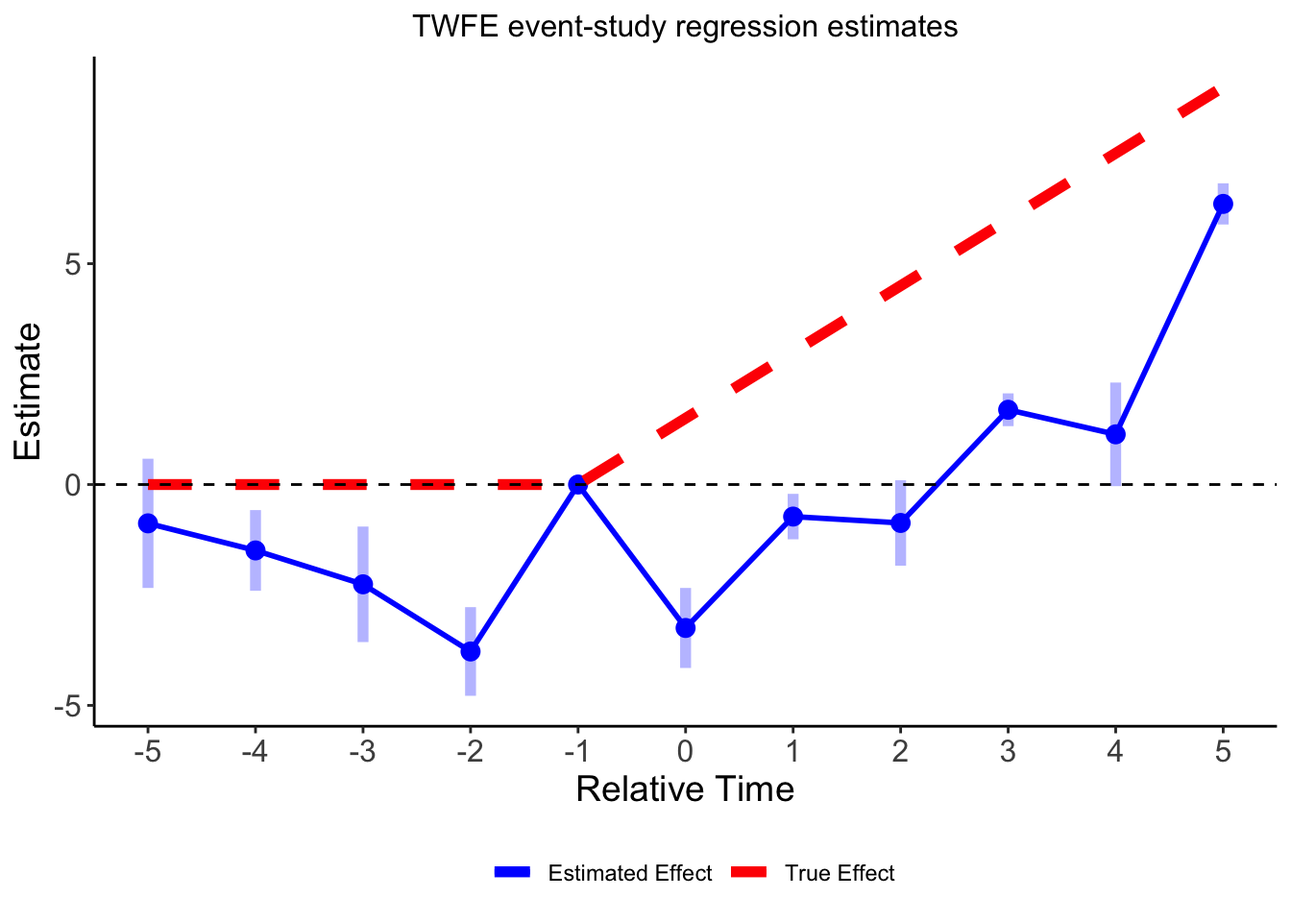
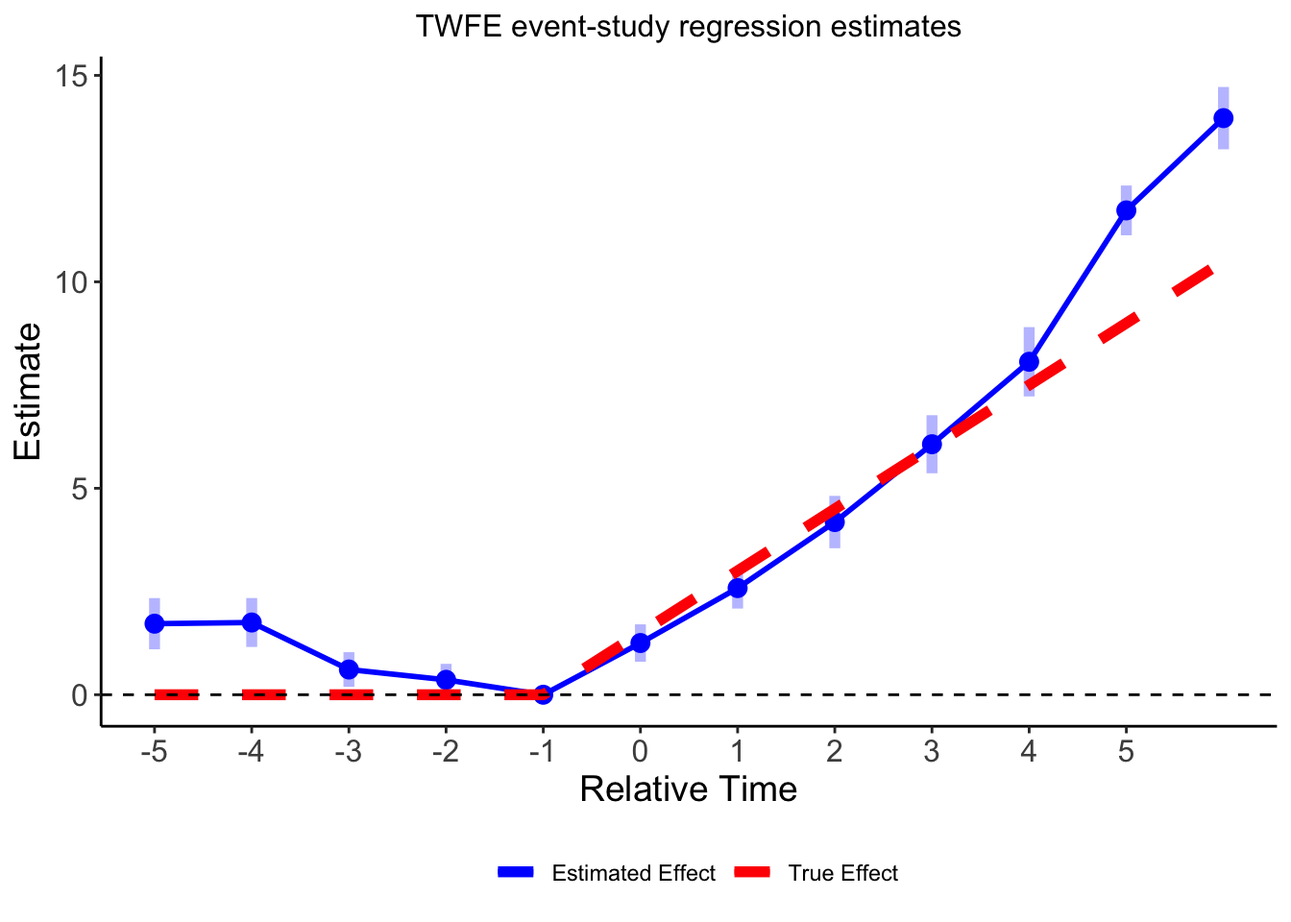
Add CS discussion

diff --git a/did-exp.html b/did-exp.html
@@ -445,7 +445,7 @@ code span.wa { color: #60a0b0; font-weight: bold; font-style: italic; } /* Warni
 <h2 class="anchored" data-anchor-id="twfe-dynamic">TWFE (dynamic)</h2>
 <p>Many analyses using TWFE also typically implement an ‘event study’ type analysis as a robustness check, both to see how the treatment effect may evolve over time in the post period and to see whether there may be some evidence of non-parallel trends in the pre-treatment period. We can implement the event-study type model as: <span class="math display">\[Y_{it} = \alpha_i + \beta_t + \sum_{k\neq-1} \gamma_{k} D_{it} + \varepsilon_{it}\]</span> where <span class="math inline">\(k\)</span> indicates time indicators relative to first treatment (i.e., <span class="math inline">\(k=-2\)</span> means 2 periods prior to treatment) and <span class="math inline">\(\gamma_{k}\)</span> are the coefficients on the relative time indicators. To avoid collinearity we exclude one period, which is typically the period just before first treatment (<span class="math inline">\(k=-1\)</span>).</p>
 <p>Below is a table showing the estimated effects from the TWFE and event-study models:</p>
-<div class="cell" data-hash="did-exp_cache/html/es_606c59b4cc9d94fa3f42fc50b00e47b9">
+<div class="cell" data-hash="did-exp_cache/html/es_3946f47a5b2030ae1eb3d3916e6185eb">
 <details>
 <summary>Code</summary>
 <div class="sourceCode cell-code" id="cb5"><pre class="sourceCode r code-with-copy"><code class="sourceCode r"><span id="cb5-1"><a href="#cb5-1" aria-hidden="true" tabindex="-1"></a><span class="co"># Estimate TWFE</span></span>
@@ -466,7 +466,7 @@ code span.wa { color: #60a0b0; font-weight: bold; font-style: italic; } /* Warni
 <span id="cb5-16"><a href="#cb5-16" aria-hidden="true" tabindex="-1"></a>  y <span class="sc">~</span> <span class="st">`</span><span class="at">rel_year_-5</span><span class="st">`</span> <span class="sc">+</span> <span class="st">`</span><span class="at">rel_year_-4</span><span class="st">`</span> <span class="sc">+</span> <span class="st">`</span><span class="at">rel_year_-3</span><span class="st">`</span> <span class="sc">+</span> </span>
 <span id="cb5-17"><a href="#cb5-17" aria-hidden="true" tabindex="-1"></a>      <span class="st">`</span><span class="at">rel_year_-2</span><span class="st">`</span> <span class="sc">+</span> <span class="st">`</span><span class="at">rel_year_0</span><span class="st">`</span> <span class="sc">+</span> <span class="st">`</span><span class="at">rel_year_1</span><span class="st">`</span> <span class="sc">+</span> </span>
 <span id="cb5-18"><a href="#cb5-18" aria-hidden="true" tabindex="-1"></a>    <span class="st">`</span><span class="at">rel_year_2</span><span class="st">`</span> <span class="sc">+</span> <span class="st">`</span><span class="at">rel_year_3</span><span class="st">`</span> <span class="sc">+</span> <span class="st">`</span><span class="at">rel_year_4</span><span class="st">`</span> <span class="sc">+</span> </span>
-<span id="cb5-19"><a href="#cb5-19" aria-hidden="true" tabindex="-1"></a>    <span class="st">`</span><span class="at">rel_year_5</span><span class="st">`</span> <span class="sc">|</span> state <span class="sc">+</span> year,</span>
+<span id="cb5-19"><a href="#cb5-19" aria-hidden="true" tabindex="-1"></a>    <span class="st">`</span><span class="at">rel_year_5</span><span class="st">`</span> <span class="sc">+</span> <span class="st">`</span><span class="at">rel_year_6</span><span class="st">`</span> <span class="sc">|</span> state <span class="sc">+</span> year,</span>
 <span id="cb5-20"><a href="#cb5-20" aria-hidden="true" tabindex="-1"></a>  <span class="at">data =</span> data,</span>
 <span id="cb5-21"><a href="#cb5-21" aria-hidden="true" tabindex="-1"></a>  <span class="at">vcov =</span> <span class="sc">~</span>state</span>
 <span id="cb5-22"><a href="#cb5-22" aria-hidden="true" tabindex="-1"></a>)</span>
@@ -505,102 +505,112 @@ code span.wa { color: #60a0b0; font-weight: bold; font-style: italic; } /* Warni
   <tr>
    <td style="text-align:left;"> Relative time: -5 </td>
    <td style="text-align:center;">  </td>
-   <td style="text-align:center;"> −0.879 </td>
+   <td style="text-align:center;"> 1.721 </td>
   </tr>
   <tr>
    <td style="text-align:left;">  </td>
    <td style="text-align:center;">  </td>
-   <td style="text-align:center;"> (0.715) </td>
+   <td style="text-align:center;"> (0.303) </td>
   </tr>
   <tr>
    <td style="text-align:left;"> Relative time: -4 </td>
    <td style="text-align:center;">  </td>
-   <td style="text-align:center;"> −1.492 </td>
+   <td style="text-align:center;"> 1.749 </td>
   </tr>
   <tr>
    <td style="text-align:left;">  </td>
    <td style="text-align:center;">  </td>
-   <td style="text-align:center;"> (0.446) </td>
+   <td style="text-align:center;"> (0.290) </td>
   </tr>
   <tr>
    <td style="text-align:left;"> Relative time: -3 </td>
    <td style="text-align:center;">  </td>
-   <td style="text-align:center;"> −2.259 </td>
+   <td style="text-align:center;"> 0.611 </td>
   </tr>
   <tr>
    <td style="text-align:left;">  </td>
    <td style="text-align:center;">  </td>
-   <td style="text-align:center;"> (0.639) </td>
+   <td style="text-align:center;"> (0.205) </td>
   </tr>
   <tr>
    <td style="text-align:left;"> Relative time: -2 </td>
    <td style="text-align:center;">  </td>
-   <td style="text-align:center;"> −3.780 </td>
+   <td style="text-align:center;"> 0.361 </td>
   </tr>
   <tr>
    <td style="text-align:left;">  </td>
    <td style="text-align:center;">  </td>
-   <td style="text-align:center;"> (0.491) </td>
+   <td style="text-align:center;"> (0.189) </td>
   </tr>
   <tr>
    <td style="text-align:left;"> Relative time: 0 </td>
    <td style="text-align:center;">  </td>
-   <td style="text-align:center;"> −3.247 </td>
+   <td style="text-align:center;"> 1.252 </td>
   </tr>
   <tr>
    <td style="text-align:left;">  </td>
    <td style="text-align:center;">  </td>
-   <td style="text-align:center;"> (0.443) </td>
+   <td style="text-align:center;"> (0.221) </td>
   </tr>
   <tr>
    <td style="text-align:left;"> Relative time: 1 </td>
    <td style="text-align:center;">  </td>
-   <td style="text-align:center;"> −0.725 </td>
+   <td style="text-align:center;"> 2.583 </td>
   </tr>
   <tr>
    <td style="text-align:left;">  </td>
    <td style="text-align:center;">  </td>
-   <td style="text-align:center;"> (0.252) </td>
+   <td style="text-align:center;"> (0.242) </td>
   </tr>
   <tr>
    <td style="text-align:left;"> Relative time: 2 </td>
    <td style="text-align:center;">  </td>
-   <td style="text-align:center;"> −0.870 </td>
+   <td style="text-align:center;"> 4.182 </td>
   </tr>
   <tr>
    <td style="text-align:left;">  </td>
    <td style="text-align:center;">  </td>
-   <td style="text-align:center;"> (0.473) </td>
+   <td style="text-align:center;"> (0.310) </td>
   </tr>
   <tr>
    <td style="text-align:left;"> Relative time: 3 </td>
    <td style="text-align:center;">  </td>
-   <td style="text-align:center;"> 1.693 </td>
+   <td style="text-align:center;"> 6.067 </td>
   </tr>
   <tr>
    <td style="text-align:left;">  </td>
    <td style="text-align:center;">  </td>
-   <td style="text-align:center;"> (0.181) </td>
+   <td style="text-align:center;"> (0.344) </td>
   </tr>
   <tr>
    <td style="text-align:left;"> Relative time: 4 </td>
    <td style="text-align:center;">  </td>
-   <td style="text-align:center;"> 1.136 </td>
+   <td style="text-align:center;"> 8.064 </td>
   </tr>
   <tr>
    <td style="text-align:left;">  </td>
    <td style="text-align:center;">  </td>
-   <td style="text-align:center;"> (0.573) </td>
+   <td style="text-align:center;"> (0.410) </td>
   </tr>
   <tr>
    <td style="text-align:left;"> Relative time: 5 </td>
    <td style="text-align:center;">  </td>
-   <td style="text-align:center;"> 6.353 </td>
+   <td style="text-align:center;"> 11.730 </td>
+  </tr>
+  <tr>
+   <td style="text-align:left;">  </td>
+   <td style="text-align:center;">  </td>
+   <td style="text-align:center;"> (0.295) </td>
+  </tr>
+  <tr>
+   <td style="text-align:left;"> Relative time: 6 </td>
+   <td style="text-align:center;">  </td>
+   <td style="text-align:center;"> 13.965 </td>
   </tr>
   <tr>
    <td style="text-align:left;box-shadow: 0px 1px">  </td>
    <td style="text-align:center;box-shadow: 0px 1px">  </td>
-   <td style="text-align:center;box-shadow: 0px 1px"> (0.228) </td>
+   <td style="text-align:center;box-shadow: 0px 1px"> (0.369) </td>
   </tr>
   <tr>
    <td style="text-align:left;"> Num.Obs. </td>
@@ -628,13 +638,13 @@ code span.wa { color: #60a0b0; font-weight: bold; font-style: italic; } /* Warni
 </div>
 </div>
 <p>How well do the event study coefficients map on to our true estimates from the DGP? Below we show a plot of the true effects based on the simulated data, as well as the estimates from the event study. The answer is: not well. Not only are the TWFE event-study estimate incorrect in the post period, they also suggest some evidence for non-parallel trends in the pre-period. [some text on intuition for this would be helpful here].</p>
-<div class="cell" data-hash="did-exp_cache/html/esp_d0fe7d1e6dd28b05eacbfe6fb3527f93">
+<div class="cell" data-hash="did-exp_cache/html/esp_c3b90cf550c2857277d092107396d87c">
 <details>
 <summary>Code</summary>
 <div class="sourceCode cell-code" id="cb6"><pre class="sourceCode r code-with-copy"><code class="sourceCode r"><span id="cb6-1"><a href="#cb6-1" aria-hidden="true" tabindex="-1"></a><span class="co"># plot of estimates</span></span>
 <span id="cb6-2"><a href="#cb6-2" aria-hidden="true" tabindex="-1"></a>pt <span class="ot">&lt;-</span> <span class="fu">get_estimates</span>(twfe_event) <span class="sc">%&gt;%</span></span>
 <span id="cb6-3"><a href="#cb6-3" aria-hidden="true" tabindex="-1"></a>  <span class="fu">select</span>(term, estimate, conf.low, conf.high) <span class="sc">%&gt;%</span></span>
-<span id="cb6-4"><a href="#cb6-4" aria-hidden="true" tabindex="-1"></a>  <span class="fu">mutate</span>(<span class="at">t =</span> <span class="fu">c</span>(<span class="sc">-</span><span class="dv">5</span><span class="sc">:-</span><span class="dv">2</span>, <span class="dv">0</span><span class="sc">:</span><span class="dv">5</span>)) <span class="sc">%&gt;%</span></span>
+<span id="cb6-4"><a href="#cb6-4" aria-hidden="true" tabindex="-1"></a>  <span class="fu">mutate</span>(<span class="at">t =</span> <span class="fu">c</span>(<span class="sc">-</span><span class="dv">5</span><span class="sc">:-</span><span class="dv">2</span>, <span class="dv">0</span><span class="sc">:</span><span class="dv">6</span>)) <span class="sc">%&gt;%</span></span>
 <span id="cb6-5"><a href="#cb6-5" aria-hidden="true" tabindex="-1"></a>  <span class="fu">bind_rows</span>(<span class="fu">tibble</span>(<span class="at">t =</span> <span class="sc">-</span><span class="dv">1</span>, <span class="at">estimate =</span> <span class="dv">0</span>, </span>
 <span id="cb6-6"><a href="#cb6-6" aria-hidden="true" tabindex="-1"></a>    <span class="at">conf.low =</span> <span class="dv">0</span>, <span class="at">conf.high =</span> <span class="dv">0</span>, <span class="at">term =</span> <span class="st">"rel_year_-1"</span>)) <span class="sc">%&gt;%</span></span>
 <span id="cb6-7"><a href="#cb6-7" aria-hidden="true" tabindex="-1"></a>  <span class="fu">mutate</span>(<span class="at">true_tau =</span> <span class="fu">ifelse</span>(t <span class="sc">&gt;=</span> <span class="dv">0</span>, ((t <span class="sc">+</span> <span class="dv">1</span>) <span class="sc">*</span> <span class="fl">1.5</span> ), <span class="dv">0</span>))</span>
@@ -672,6 +682,7 @@ code span.wa { color: #60a0b0; font-weight: bold; font-style: italic; } /* Warni
 <p>To avoid the problems with the TWFE specification above, we can instead use the approach recently developed by Callaway and Sant’Anna that estimates the average treatment effect on the treated (<span class="math inline">\(ATT\)</span>) for each treated group <span class="math inline">\(g\)</span> at each time <span class="math inline">\(t\)</span>, i.e., <span class="math inline">\(ATT(g,t)\)</span>, where groups are defined according to when they were first treated. The group-time specific estimates of each <span class="math inline">\(ATT(g,t)\)</span> are estimated via regression on <em>subsets</em> of the data for each group and time periods covering pre- and post-intervention, using the following specification:</p>
 <p><span class="math display">\[Y_{it} = \beta_{0}^{gt} + \beta_{1}^{gt}G + \beta_{2}^{gt}T + \beta_{3}^{gt}(G\times T) + \varepsilon^{gt} \]</span></p>
 <p>where <span class="math inline">\(G\)</span> and <span class="math inline">\(T\)</span> refer to indicators for group and time period and <span class="math inline">\(\beta_{3}^{gt}\)</span> is the <span class="math inline">\(ATT(g,t)\)</span> for each group at a given time. Treated groups are compared to not yet treated groups to estimate group-time specific <span class="math inline">\(ATTs\)</span> , which can be combined to estimate the overall effect of the intervention, as well as dynamic treatment effects.</p>
+<p>The table below compares the estimates from the TWFE model to ‘simple’ aggregate estimate from the CS model. As before, we know that the ‘truth’ here should be something like an average <span class="math inline">\(ATT\)</span> of Note that the TWFE estim</p>
 <div class="cell">
 <details>
 <summary>Code</summary>
@@ -1105,7 +1116,7 @@ window.document.addEventListener("DOMContentLoaded", function (event) {
 <span id="cb8-177"><a href="#cb8-177" aria-hidden="true" tabindex="-1"></a>  y <span class="sc">~</span> <span class="st">`</span><span class="at">rel_year_-5</span><span class="st">`</span> <span class="sc">+</span> <span class="st">`</span><span class="at">rel_year_-4</span><span class="st">`</span> <span class="sc">+</span> <span class="st">`</span><span class="at">rel_year_-3</span><span class="st">`</span> <span class="sc">+</span> </span>
 <span id="cb8-178"><a href="#cb8-178" aria-hidden="true" tabindex="-1"></a>      <span class="st">`</span><span class="at">rel_year_-2</span><span class="st">`</span> <span class="sc">+</span> <span class="st">`</span><span class="at">rel_year_0</span><span class="st">`</span> <span class="sc">+</span> <span class="st">`</span><span class="at">rel_year_1</span><span class="st">`</span> <span class="sc">+</span> </span>
 <span id="cb8-179"><a href="#cb8-179" aria-hidden="true" tabindex="-1"></a>    <span class="st">`</span><span class="at">rel_year_2</span><span class="st">`</span> <span class="sc">+</span> <span class="st">`</span><span class="at">rel_year_3</span><span class="st">`</span> <span class="sc">+</span> <span class="st">`</span><span class="at">rel_year_4</span><span class="st">`</span> <span class="sc">+</span> </span>
-<span id="cb8-180"><a href="#cb8-180" aria-hidden="true" tabindex="-1"></a>    <span class="st">`</span><span class="at">rel_year_5</span><span class="st">`</span> <span class="sc">|</span> state <span class="sc">+</span> year,</span>
+<span id="cb8-180"><a href="#cb8-180" aria-hidden="true" tabindex="-1"></a>    <span class="st">`</span><span class="at">rel_year_5</span><span class="st">`</span> <span class="sc">+</span> <span class="st">`</span><span class="at">rel_year_6</span><span class="st">`</span> <span class="sc">|</span> state <span class="sc">+</span> year,</span>
 <span id="cb8-181"><a href="#cb8-181" aria-hidden="true" tabindex="-1"></a>  <span class="at">data =</span> data,</span>
 <span id="cb8-182"><a href="#cb8-182" aria-hidden="true" tabindex="-1"></a>  <span class="at">vcov =</span> <span class="sc">~</span>state</span>
 <span id="cb8-183"><a href="#cb8-183" aria-hidden="true" tabindex="-1"></a>)</span>
@@ -1127,7 +1138,7 @@ window.document.addEventListener("DOMContentLoaded", function (event) {
 <span id="cb8-199"><a href="#cb8-199" aria-hidden="true" tabindex="-1"></a><span class="co"># plot of estimates</span></span>
 <span id="cb8-200"><a href="#cb8-200" aria-hidden="true" tabindex="-1"></a>pt <span class="ot">&lt;-</span> <span class="fu">get_estimates</span>(twfe_event) <span class="sc">%&gt;%</span></span>
 <span id="cb8-201"><a href="#cb8-201" aria-hidden="true" tabindex="-1"></a>  <span class="fu">select</span>(term, estimate, conf.low, conf.high) <span class="sc">%&gt;%</span></span>
-<span id="cb8-202"><a href="#cb8-202" aria-hidden="true" tabindex="-1"></a>  <span class="fu">mutate</span>(<span class="at">t =</span> <span class="fu">c</span>(<span class="sc">-</span><span class="dv">5</span><span class="sc">:-</span><span class="dv">2</span>, <span class="dv">0</span><span class="sc">:</span><span class="dv">5</span>)) <span class="sc">%&gt;%</span></span>
+<span id="cb8-202"><a href="#cb8-202" aria-hidden="true" tabindex="-1"></a>  <span class="fu">mutate</span>(<span class="at">t =</span> <span class="fu">c</span>(<span class="sc">-</span><span class="dv">5</span><span class="sc">:-</span><span class="dv">2</span>, <span class="dv">0</span><span class="sc">:</span><span class="dv">6</span>)) <span class="sc">%&gt;%</span></span>
 <span id="cb8-203"><a href="#cb8-203" aria-hidden="true" tabindex="-1"></a>  <span class="fu">bind_rows</span>(<span class="fu">tibble</span>(<span class="at">t =</span> <span class="sc">-</span><span class="dv">1</span>, <span class="at">estimate =</span> <span class="dv">0</span>, </span>
 <span id="cb8-204"><a href="#cb8-204" aria-hidden="true" tabindex="-1"></a>    <span class="at">conf.low =</span> <span class="dv">0</span>, <span class="at">conf.high =</span> <span class="dv">0</span>, <span class="at">term =</span> <span class="st">"rel_year_-1"</span>)) <span class="sc">%&gt;%</span></span>
 <span id="cb8-205"><a href="#cb8-205" aria-hidden="true" tabindex="-1"></a>  <span class="fu">mutate</span>(<span class="at">true_tau =</span> <span class="fu">ifelse</span>(t <span class="sc">&gt;=</span> <span class="dv">0</span>, ((t <span class="sc">+</span> <span class="dv">1</span>) <span class="sc">*</span> <span class="fl">1.5</span> ), <span class="dv">0</span>))</span>
@@ -1164,35 +1175,37 @@ window.document.addEventListener("DOMContentLoaded", function (event) {
 <span id="cb8-236"><a href="#cb8-236" aria-hidden="true" tabindex="-1"></a></span>
 <span id="cb8-237"><a href="#cb8-237" aria-hidden="true" tabindex="-1"></a>where $G$ and $T$ refer to indicators for group and time period and $\beta_{3}^{gt}$ is the $ATT(g,t)$ for each group at a given time. Treated groups are compared to not yet treated groups to estimate group-time specific $ATTs$ , which can be combined to estimate the overall effect of the intervention, as well as dynamic treatment effects. </span>
 <span id="cb8-238"><a href="#cb8-238" aria-hidden="true" tabindex="-1"></a></span>
-<span id="cb8-239"><a href="#cb8-239" aria-hidden="true" tabindex="-1"></a><span class="in">```{r cs, message=FALSE, warning=FALSE}</span></span>
-<span id="cb8-240"><a href="#cb8-240" aria-hidden="true" tabindex="-1"></a><span class="co"># Callaway-Sant'Anna</span></span>
-<span id="cb8-241"><a href="#cb8-241" aria-hidden="true" tabindex="-1"></a>cs <span class="ot">&lt;-</span> did<span class="sc">::</span><span class="fu">att_gt</span>(<span class="at">yname =</span> <span class="st">"y"</span>, </span>
-<span id="cb8-242"><a href="#cb8-242" aria-hidden="true" tabindex="-1"></a>                  <span class="at">tname =</span> <span class="st">"year"</span>,</span>
-<span id="cb8-243"><a href="#cb8-243" aria-hidden="true" tabindex="-1"></a>                  <span class="at">idname =</span> <span class="st">"unit"</span>,</span>
-<span id="cb8-244"><a href="#cb8-244" aria-hidden="true" tabindex="-1"></a>                  <span class="at">gname =</span> <span class="st">"cohort_year"</span>,</span>
-<span id="cb8-245"><a href="#cb8-245" aria-hidden="true" tabindex="-1"></a>                  <span class="at">control_group=</span> <span class="st">"notyettreated"</span>,</span>
-<span id="cb8-246"><a href="#cb8-246" aria-hidden="true" tabindex="-1"></a>                  <span class="at">bstrap =</span> <span class="cn">TRUE</span>,</span>
-<span id="cb8-247"><a href="#cb8-247" aria-hidden="true" tabindex="-1"></a>                  <span class="at">clustervars =</span> <span class="st">"state"</span>,</span>
-<span id="cb8-248"><a href="#cb8-248" aria-hidden="true" tabindex="-1"></a>                  <span class="at">data =</span> d,</span>
-<span id="cb8-249"><a href="#cb8-249" aria-hidden="true" tabindex="-1"></a>                  <span class="at">print_details =</span> <span class="cn">FALSE</span>)</span>
-<span id="cb8-250"><a href="#cb8-250" aria-hidden="true" tabindex="-1"></a></span>
-<span id="cb8-251"><a href="#cb8-251" aria-hidden="true" tabindex="-1"></a>cs_simple <span class="ot">&lt;-</span> did<span class="sc">::</span><span class="fu">aggte</span>(cs, <span class="at">type =</span> <span class="st">"simple"</span>)</span>
-<span id="cb8-252"><a href="#cb8-252" aria-hidden="true" tabindex="-1"></a>cs_event <span class="ot">&lt;-</span> did<span class="sc">::</span><span class="fu">aggte</span>(cs, <span class="at">type =</span> <span class="st">"dynamic"</span>)</span>
-<span id="cb8-253"><a href="#cb8-253" aria-hidden="true" tabindex="-1"></a></span>
-<span id="cb8-254"><a href="#cb8-254" aria-hidden="true" tabindex="-1"></a><span class="co"># wrangle aggregate ATTs for model summary table</span></span>
-<span id="cb8-255"><a href="#cb8-255" aria-hidden="true" tabindex="-1"></a>ti <span class="ot">&lt;-</span> <span class="fu">data.frame</span>(</span>
-<span id="cb8-256"><a href="#cb8-256" aria-hidden="true" tabindex="-1"></a>  <span class="at">term =</span> <span class="st">"treat"</span>,</span>
-<span id="cb8-257"><a href="#cb8-257" aria-hidden="true" tabindex="-1"></a>  <span class="at">estimate =</span> cs_simple<span class="sc">$</span>overall.att,</span>
-<span id="cb8-258"><a href="#cb8-258" aria-hidden="true" tabindex="-1"></a>  <span class="at">std.error =</span> cs_simple<span class="sc">$</span>overall.se)</span>
-<span id="cb8-259"><a href="#cb8-259" aria-hidden="true" tabindex="-1"></a></span>
-<span id="cb8-260"><a href="#cb8-260" aria-hidden="true" tabindex="-1"></a>gl <span class="ot">&lt;-</span> <span class="fu">data.frame</span>()</span>
+<span id="cb8-239"><a href="#cb8-239" aria-hidden="true" tabindex="-1"></a>The table below compares the estimates from the TWFE model to 'simple' aggregate estimate from the CS model. As before, we know that the 'truth' here should be something like an average $ATT$ of Note that the TWFE estim</span>
+<span id="cb8-240"><a href="#cb8-240" aria-hidden="true" tabindex="-1"></a></span>
+<span id="cb8-241"><a href="#cb8-241" aria-hidden="true" tabindex="-1"></a><span class="in">```{r cs, message=FALSE, warning=FALSE}</span></span>
+<span id="cb8-242"><a href="#cb8-242" aria-hidden="true" tabindex="-1"></a><span class="co"># Callaway-Sant'Anna</span></span>
+<span id="cb8-243"><a href="#cb8-243" aria-hidden="true" tabindex="-1"></a>cs <span class="ot">&lt;-</span> did<span class="sc">::</span><span class="fu">att_gt</span>(<span class="at">yname =</span> <span class="st">"y"</span>, </span>
+<span id="cb8-244"><a href="#cb8-244" aria-hidden="true" tabindex="-1"></a>                  <span class="at">tname =</span> <span class="st">"year"</span>,</span>
+<span id="cb8-245"><a href="#cb8-245" aria-hidden="true" tabindex="-1"></a>                  <span class="at">idname =</span> <span class="st">"unit"</span>,</span>
+<span id="cb8-246"><a href="#cb8-246" aria-hidden="true" tabindex="-1"></a>                  <span class="at">gname =</span> <span class="st">"cohort_year"</span>,</span>
+<span id="cb8-247"><a href="#cb8-247" aria-hidden="true" tabindex="-1"></a>                  <span class="at">control_group=</span> <span class="st">"notyettreated"</span>,</span>
+<span id="cb8-248"><a href="#cb8-248" aria-hidden="true" tabindex="-1"></a>                  <span class="at">bstrap =</span> <span class="cn">TRUE</span>,</span>
+<span id="cb8-249"><a href="#cb8-249" aria-hidden="true" tabindex="-1"></a>                  <span class="at">clustervars =</span> <span class="st">"state"</span>,</span>
+<span id="cb8-250"><a href="#cb8-250" aria-hidden="true" tabindex="-1"></a>                  <span class="at">data =</span> d,</span>
+<span id="cb8-251"><a href="#cb8-251" aria-hidden="true" tabindex="-1"></a>                  <span class="at">print_details =</span> <span class="cn">FALSE</span>)</span>
+<span id="cb8-252"><a href="#cb8-252" aria-hidden="true" tabindex="-1"></a></span>
+<span id="cb8-253"><a href="#cb8-253" aria-hidden="true" tabindex="-1"></a>cs_simple <span class="ot">&lt;-</span> did<span class="sc">::</span><span class="fu">aggte</span>(cs, <span class="at">type =</span> <span class="st">"simple"</span>)</span>
+<span id="cb8-254"><a href="#cb8-254" aria-hidden="true" tabindex="-1"></a>cs_event <span class="ot">&lt;-</span> did<span class="sc">::</span><span class="fu">aggte</span>(cs, <span class="at">type =</span> <span class="st">"dynamic"</span>)</span>
+<span id="cb8-255"><a href="#cb8-255" aria-hidden="true" tabindex="-1"></a></span>
+<span id="cb8-256"><a href="#cb8-256" aria-hidden="true" tabindex="-1"></a><span class="co"># wrangle aggregate ATTs for model summary table</span></span>
+<span id="cb8-257"><a href="#cb8-257" aria-hidden="true" tabindex="-1"></a>ti <span class="ot">&lt;-</span> <span class="fu">data.frame</span>(</span>
+<span id="cb8-258"><a href="#cb8-258" aria-hidden="true" tabindex="-1"></a>  <span class="at">term =</span> <span class="st">"treat"</span>,</span>
+<span id="cb8-259"><a href="#cb8-259" aria-hidden="true" tabindex="-1"></a>  <span class="at">estimate =</span> cs_simple<span class="sc">$</span>overall.att,</span>
+<span id="cb8-260"><a href="#cb8-260" aria-hidden="true" tabindex="-1"></a>  <span class="at">std.error =</span> cs_simple<span class="sc">$</span>overall.se)</span>
 <span id="cb8-261"><a href="#cb8-261" aria-hidden="true" tabindex="-1"></a></span>
-<span id="cb8-262"><a href="#cb8-262" aria-hidden="true" tabindex="-1"></a>cs_avg <span class="ot">&lt;-</span> <span class="fu">list</span>(<span class="at">tidy =</span> ti, <span class="at">glance =</span> gl)</span>
-<span id="cb8-263"><a href="#cb8-263" aria-hidden="true" tabindex="-1"></a><span class="fu">class</span>(cs_avg) <span class="ot">&lt;-</span> <span class="st">"modelsummary_list"</span></span>
-<span id="cb8-264"><a href="#cb8-264" aria-hidden="true" tabindex="-1"></a></span>
-<span id="cb8-265"><a href="#cb8-265" aria-hidden="true" tabindex="-1"></a><span class="fu">modelsummary</span>(<span class="fu">list</span>(<span class="st">"TWFE"</span> <span class="ot">=</span> twfe, <span class="st">"Callaway"</span> <span class="ot">=</span> cs_avg),</span>
-<span id="cb8-266"><a href="#cb8-266" aria-hidden="true" tabindex="-1"></a>  <span class="at">gof_omit =</span><span class="st">'_*'</span>)</span>
-<span id="cb8-267"><a href="#cb8-267" aria-hidden="true" tabindex="-1"></a><span class="in">```</span></span></code><button title="Copy to Clipboard" class="code-copy-button"><i class="bi"></i></button></pre></div>
+<span id="cb8-262"><a href="#cb8-262" aria-hidden="true" tabindex="-1"></a>gl <span class="ot">&lt;-</span> <span class="fu">data.frame</span>()</span>
+<span id="cb8-263"><a href="#cb8-263" aria-hidden="true" tabindex="-1"></a></span>
+<span id="cb8-264"><a href="#cb8-264" aria-hidden="true" tabindex="-1"></a>cs_avg <span class="ot">&lt;-</span> <span class="fu">list</span>(<span class="at">tidy =</span> ti, <span class="at">glance =</span> gl)</span>
+<span id="cb8-265"><a href="#cb8-265" aria-hidden="true" tabindex="-1"></a><span class="fu">class</span>(cs_avg) <span class="ot">&lt;-</span> <span class="st">"modelsummary_list"</span></span>
+<span id="cb8-266"><a href="#cb8-266" aria-hidden="true" tabindex="-1"></a></span>
+<span id="cb8-267"><a href="#cb8-267" aria-hidden="true" tabindex="-1"></a><span class="fu">modelsummary</span>(<span class="fu">list</span>(<span class="st">"TWFE"</span> <span class="ot">=</span> twfe, <span class="st">"Callaway"</span> <span class="ot">=</span> cs_avg),</span>
+<span id="cb8-268"><a href="#cb8-268" aria-hidden="true" tabindex="-1"></a>  <span class="at">gof_omit =</span><span class="st">'_*'</span>)</span>
+<span id="cb8-269"><a href="#cb8-269" aria-hidden="true" tabindex="-1"></a><span class="in">```</span></span></code><button title="Copy to Clipboard" class="code-copy-button"><i class="bi"></i></button></pre></div>
 </div></div></div></div></div>
 </div> <!-- /content -->
 
